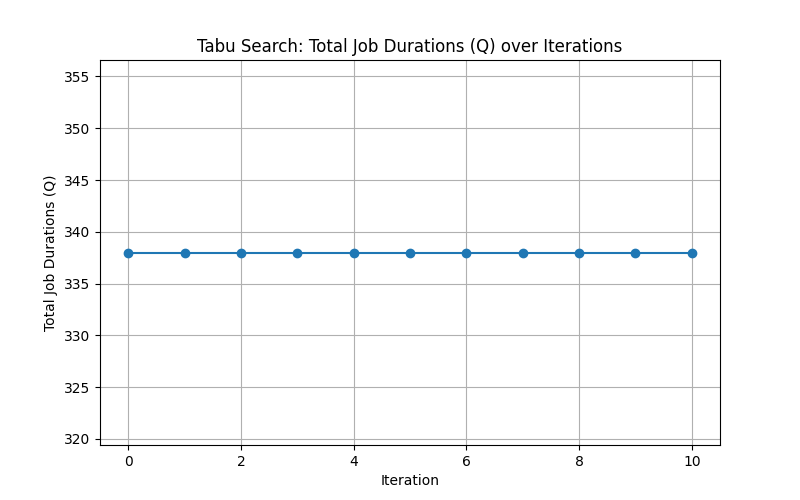
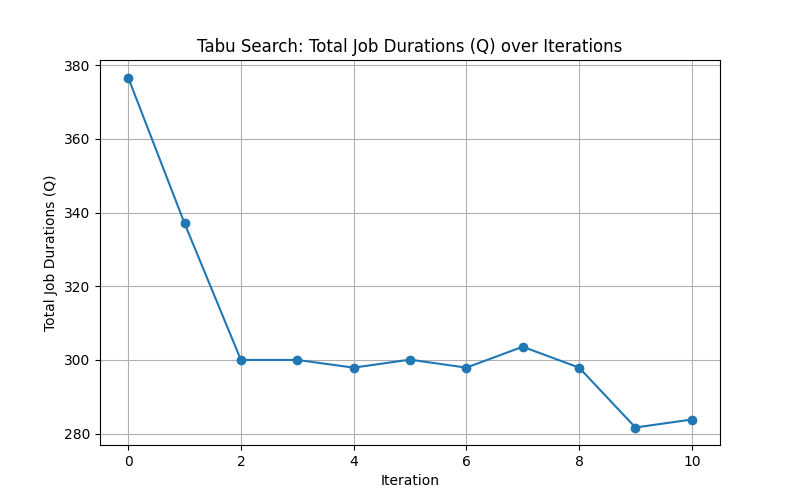
updates

diff --git a/src/tabu_search.py b/src/tabu_search.py
@@ -25,11 +25,10 @@ def tabu_search(
     N = data['N']
     M = data['M']
     L = data['L']
-    # Initial solution: random permutation
+    # Initial solution: random permutation and random speeds
     current_sequence = list(range(N))
     random.shuffle(current_sequence)
-    # Default: all jobs at normal speed (index 1)
-    speeds_assignment = [[1 for _ in range(M)] for _ in range(N)]
+    speeds_assignment = [[random.randint(0, L-1) for _ in range(M)] for _ in range(N)]
     current_obj = calculate_objectives(current_sequence, speeds_assignment, data)
     current_makespan = current_obj['obj3_c_sup']
     best_sequence = current_sequence[:]
@@ -45,34 +44,49 @@ def tabu_search(
         }
     ]
 
-    # Tabu list: stores forbidden swaps (i, j) with their expiration iteration
-    tabu_list = dict()  # key: (i, j), value: expiration iteration
+    # Tabu list: stores forbidden moves with their expiration iteration
+    tabu_list = dict()  # key: move tuple, value: expiration iteration
 
     for it in range(num_iterations):
         neighborhood = []
-        # Generate neighbors by pairwise swaps
+        # 1. Generate neighbors by pairwise swaps
         for i in range(N-1):
             for j in range(i+1, N):
-                neighbor = current_sequence[:]
-                neighbor[i], neighbor[j] = neighbor[j], neighbor[i]
-                move = (i, j)
+                neighbor_seq = current_sequence[:]
+                neighbor_seq[i], neighbor_seq[j] = neighbor_seq[j], neighbor_seq[i]
+                move = ('swap', i, j)
                 if tabu_list.get(move, 0) > it:
                     continue  # Move is tabu
-                neighbor_obj = calculate_objectives(neighbor, speeds_assignment, data)
+                neighbor_obj = calculate_objectives(neighbor_seq, speeds_assignment, data)
                 makespan = neighbor_obj['obj3_c_sup']
-                neighborhood.append((makespan, neighbor, move, neighbor_obj))
+                neighborhood.append((makespan, neighbor_seq, [row[:] for row in speeds_assignment], move, neighbor_obj))
+        # 2. Generate neighbors by changing speed assignment for one job on one machine
+        for job_idx in range(N):
+            for machine_idx in range(M):
+                current_speed = speeds_assignment[job_idx][machine_idx]
+                for speed_level in range(L):
+                    if speed_level != current_speed:
+                        neighbor_speeds = [row[:] for row in speeds_assignment]
+                        neighbor_speeds[job_idx][machine_idx] = speed_level
+                        move = ('speed', job_idx, machine_idx, current_speed)
+                        if tabu_list.get(move, 0) > it:
+                            continue  # Move is tabu
+                        neighbor_obj = calculate_objectives(current_sequence, neighbor_speeds, data)
+                        makespan = neighbor_obj['obj3_c_sup']
+                        neighborhood.append((makespan, current_sequence[:], neighbor_speeds, move, neighbor_obj))
         if not neighborhood:
             break
-        # Select best neighbor
+        # Select best neighbor (minimize makespan)
         neighborhood.sort(key=lambda x: x[0])
-        best_neighbor_makespan, best_neighbor, best_move, best_neighbor_obj = neighborhood[0]
+        best_neighbor_makespan, best_neighbor_seq, best_neighbor_speeds, best_move, best_neighbor_obj = neighborhood[0]
         # Aspiration: allow tabu move if it improves best known
         if best_neighbor_makespan < best_makespan:
-            best_sequence = best_neighbor[:]
+            best_sequence = best_neighbor_seq[:]
             best_makespan = best_neighbor_makespan
-            best_speeds = [row[:] for row in speeds_assignment]
+            best_speeds = [row[:] for row in best_neighbor_speeds]
         # Update current solution
-        current_sequence = best_neighbor[:]
+        current_sequence = best_neighbor_seq[:]
+        speeds_assignment = [row[:] for row in best_neighbor_speeds]
         current_makespan = best_neighbor_makespan
         makespans.append(best_makespan)
         objectives_history.append({

diff --git a/src/main.py b/src/main.py
@@ -13,14 +13,37 @@ def main():
     # Run Tabu Search
     best_seq, best_makespan, makespans, objectives_history = tabu_search(data, num_iterations=10, tabu_tenure=5, seed=42)
 
-    # Save all objectives per iteration
+    # Find best for each objective
+    best_csup_idx = min(range(len(objectives_history)), key=lambda i: objectives_history[i]['obj3_c_sup'])
+    best_q_idx = min(range(len(objectives_history)), key=lambda i: objectives_history[i]['obj1_q'])
+    best_e_idx = min(range(len(objectives_history)), key=lambda i: objectives_history[i]['obj2_e'])
+    best_idle_idx = min(range(len(objectives_history)), key=lambda i: objectives_history[i]['obj4_sum_t_m'])
+
+    # Save all objectives per iteration and bests
     results_path = os.path.join(os.path.dirname(__file__), '../results/results.txt')
     with open(results_path, 'w') as f:
-        f.write(f'Best sequence: {best_seq}\n')
+        f.write(f'Best sequence (makespan): {best_seq}\n')
         f.write(f'Best makespan: {best_makespan}\n')
         f.write('Objectives per iteration:\n')
         for i, obj in enumerate(objectives_history):
             f.write(f'Iter {i}: Q={obj["obj1_q"]:.2f}, E={obj["obj2_e"]:.4f}, C_sup={obj["obj3_c_sup"]:.2f}, Sum_t_m={obj["obj4_sum_t_m"]:.2f}\n')
+        f.write('\n')
+        f.write(f'Best Q: {objectives_history[best_q_idx]["obj1_q"]:.2f} \n')
+        f.write(f'Best E: {objectives_history[best_e_idx]["obj2_e"]:.4f} \n')
+        f.write(f'Best C_sup: {objectives_history[best_csup_idx]["obj3_c_sup"]:.2f}\n')
+        f.write(f'Best Sum_t_m: {objectives_history[best_idle_idx]["obj4_sum_t_m"]:.2f}\n')
+        f.write('\n')
+        # f.write(f'Best Q sequence: {best_seq if best_q_idx == best_csup_idx else "see CSV"}\n')
+        # f.write(f'Best E sequence: {best_seq if best_e_idx == best_csup_idx else "see CSV"}\n')
+        # f.write(f'Best Sum_t_m sequence: {best_seq if best_idle_idx == best_csup_idx else "see CSV"}\n')
+        # # Optionally, you could save the speed assignments if you return them from tabu_search
+
+    # Save objectives history as CSV for further analysis
+    csv_path = os.path.join(os.path.dirname(__file__), '../results/objectives_history.csv')
+    with open(csv_path, 'w') as f:
+        f.write('iteration,Q,E,C_sup,Sum_t_m\n')
+        for i, obj in enumerate(objectives_history):
+            f.write(f'{i},{obj["obj1_q"]},{obj["obj2_e"]},{obj["obj3_c_sup"]},{obj["obj4_sum_t_m"]}\n')
 
     # Plot all objectives
     plot_dir = os.path.join(os.path.dirname(__file__), '../plots')
@@ -62,14 +85,14 @@ def main():
     plt.savefig(os.path.join(plot_dir, 'total_idle_time.png'))
     plt.close()
 
-    # Print best values
-    best_obj = min(objectives_history, key=lambda x: x['obj3_c_sup'])
-    print(f'Best sequence: {best_seq}')
-    print(f'Best makespan (C_sup): {best_obj["obj3_c_sup"]:.2f}')
-    print(f'Best Q (total durations): {best_obj["obj1_q"]:.2f}')
-    print(f'Best E (energy): {best_obj["obj2_e"]:.4f}')
-    print(f'Best Sum_t_m (idle): {best_obj["obj4_sum_t_m"]:.2f}')
+    # Print best values for each objective
+    print(f'Best sequence (makespan): {best_seq}')
+    print(f'Best makespan (C_sup): {objectives_history[best_csup_idx]["obj3_c_sup"]:.2f}')
+    print(f'Best Q (total durations): {objectives_history[best_q_idx]["obj1_q"]:.2f}')
+    print(f'Best E (energy): {objectives_history[best_e_idx]["obj2_e"]:.4f} ')
+    print(f'Best Sum_t_m (idle): {objectives_history[best_idle_idx]["obj4_sum_t_m"]:.2f}')
     print(f'Results saved to {results_path}')
+    print(f'Objectives history CSV saved to {csv_path}')
     print(f'Plots saved to {plot_dir}')
 
 if __name__ == '__main__':
